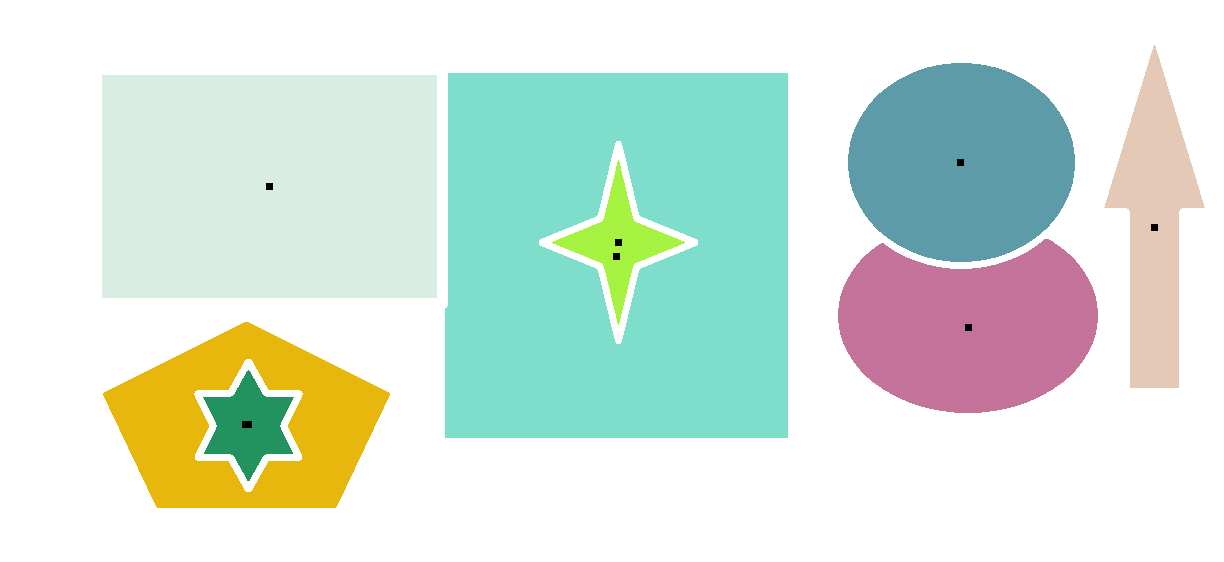
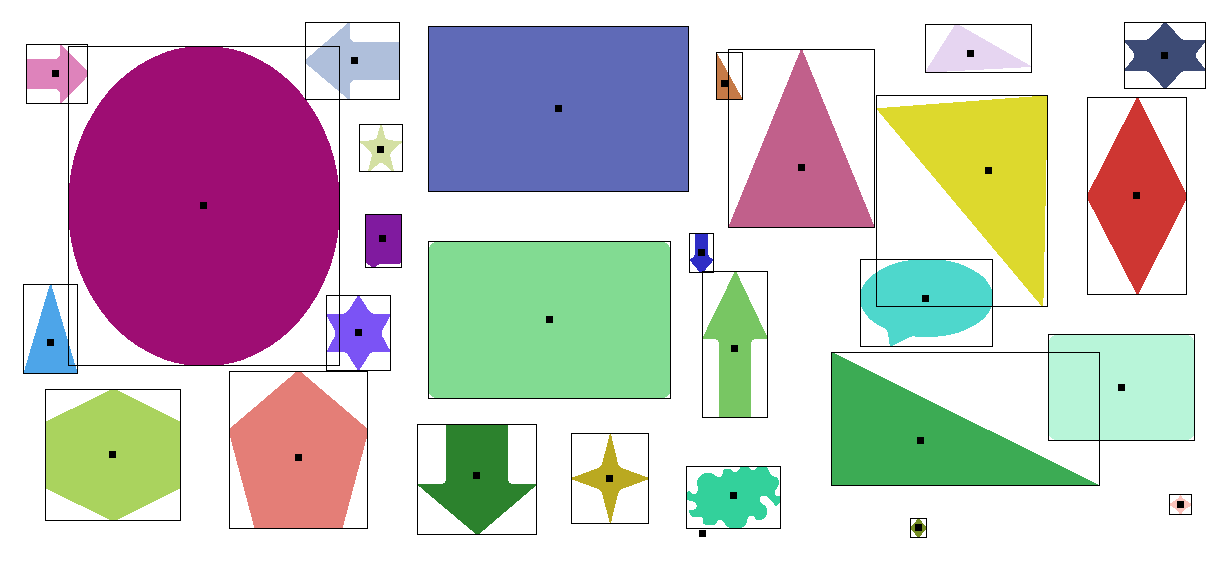
Almost complete form detection

diff --git a/package/forms/floodfill.py b/package/forms/floodfill.py
@@ -1,4 +1,4 @@
-from PIL import Image
+from PIL import Image, ImageDraw
 import sys
 import os.path
 import math
@@ -97,7 +97,6 @@ def enhance_edge(image, bool_edges):
 def flood_fill(image):
 	change_color(image, None, None) #remove pixels that are not white or black
 	image = enhance_edge(image, True) #se crea un nuevo objeto tipo Image, ya es distinto que el que recibe flood_fill
-	image.show()
 	white_color, black_color = (255, 255, 255), (0, 0, 0)
 	xs, ys = image.size
 	pixels = image.load()
@@ -105,6 +104,7 @@ def flood_fill(image):
 	max_color_count = 0
 	background_new_color = ()
 	center_mass = {} #color -> center of mass
+	info_form = {}
 	for y in xrange(0, ys):
 		for x in xrange(0, xs):
 			pixel = pixels[x, y]
@@ -112,6 +112,7 @@ def flood_fill(image):
 				visitados = {}
 				newcolor = rout.gen_color(color_list)
 				color_list.append(newcolor)#generador de colores llamada incompleto
+				visitados[(y, x)] = 1
 				queue_neighbors = list()
 				queue_neighbors.append((y, x))
 				while len(queue_neighbors) > 0:
@@ -122,21 +123,24 @@ def flood_fill(image):
 				if len(visitados) > 0:
 					new_center_mass = center_of_mass(image, visitados)
 					center_mass[newcolor] = new_center_mass
-	print "centro_masas", center_mass
+					info = find_info_form(visitados)
+					info_form[newcolor] = info
 	if background_new_color in center_mass:
 		del center_mass[background_new_color]
-	print "centro_masas", center_mass
+	if background_new_color in info_form:
+		del info_form[background_new_color]
 	change_color(image, background_new_color, white_color) #replace the new back ground color with the white color
 	change_color(image, black_color, white_color)
 	draw_center_mass(image, center_mass)
+	draw_box(image, info_form)
 	return image
 	
-def draw_center_mass(image, center_mass):
+def draw_center_mass(image, color_dic):
 	black_color = (0, 0, 0)
 	xs, ys = image.size
 	pixels = image.load()
-	for color in center_mass:
-		center = center_mass[color]
+	for color in color_dic:
+		center = color_dic[color]
 		y, x = center[0], center[1]
 		for dy in xrange(y - 3, y + 4):
 			if dy >= 0 and dy < ys:
@@ -144,6 +148,24 @@ def draw_center_mass(image, center_mass):
 					if dx >= 0 and dx < xs:
 						pixels[dx, dy] = black_color
 	return None
+	
+def draw_box(image, info_form):
+	black_color = (0, 0, 0)
+	pixels = image.load()
+	xs, ys = image.size
+	for llave in info_form:
+		form = info_form[llave]
+		y1, y2 = form[0]
+		x1, x2 = form[1]
+		pix1, pix2, pix3, pix4 = (x1, y1), (x1, y2), (x2, y1), (x2, y2)
+		draw = ImageDraw.Draw(image)
+		draw.line((pix1, pix3), fill = black_color)
+		draw.line((pix1, pix2), fill = black_color)
+		draw.line((pix4, pix2), fill = black_color)
+		draw.line((pix4, pix3), fill = black_color)
+	return None
+
+			
 	
 def edge_dictio(image):
 	edge_color = (0, 0, 0)
@@ -168,28 +190,38 @@ def edge_dictio(image):
 					edge_id[id] = visitados_lista
 	return edge_id
 	
-def jarvis(image):
-	pixels = image.load()
-	edge_id = edge_dictio(image)
-	for id in edge_id:
-		y, x = [], []
-		edge_points = edge_id[id]
-		for points in edge_points:
-			y.append(points[0])
-		y.sort()
-		lower_y = y[len(y)-1]
-		for points in edge_points:
-			if points[0] == lower_y:
-				x.append(points[1])
-		x.sort()
-		upper_x = x[len(x)-1]
-		print "y, x", (lower_y, upper_x)
+def find_info_form(list_of_pixels):
+	y, x = [], []
+	for pixel in list_of_pixels:
+		y.append(pixel[0])
+		x.append(pixel[1])
+	y.sort()
+	x.sort()
+	y_ = (y[0], y[len(y) - 1])
+	x_ = (x[0], x[len(x) - 1])
+	return (y_, x_)
+		
+
+	#pixels = image.load()
+	#edge_id = edge_dictio(image)
+	#for id in edge_id:
+	#	y, x = [], []
+	#	edge_points = edge_id[id]
+	#	for points in edge_points:
+	#		y.append(points[0])
+	#	y.sort()
+	#	lower_y = y[len(y)-1]
+	#	for points in edge_points:
+	#		if points[0] == lower_y:
+	#			x.append(points[1])
+	##	upper_x = x[len(x)-1]
+		#print "y, x", (lower_y, upper_x)
 	return None
 
 if __name__ == '__main__':
 	#pre_options = aux.pre_argv(sys.argv)
 	#__main__(pre_options[0], pre_options[1], pre_options[2])
-	filename = "samples\\circulos.png"
+	filename = "samples\\figuras_ejemplo.png"
 	print filename
 	original_image = Image.open(filename)
 	image = original_image.convert('RGB')
@@ -221,4 +253,3 @@ if __name__ == '__main__':
 	image = flood_fill(image)
 	image.show()
 	image.save('formas.png')
-	jarvis(image)

diff --git a/package/edge_detection/filtros.py b/package/edge_detection/filtros.py
@@ -1,9 +1,9 @@
 from PIL import Image
 import sys
-import routines.routines as routines
-import routines.auxiliary as auxiliary
+import routines.routines as rout
+import routines.auxiliary as aux
 
-def aplicar_filtro(imagen, tipo_vecino, tipo_filtro):
+def aplicar_filtro(imagen, tipo_filtro):
 	xs, ys = imagen.size
 	pixeles = imagen.load()
 	nueva_imagen = imagen.copy()
@@ -17,24 +17,40 @@ def aplicar_filtro(imagen, tipo_vecino, tipo_filtro):
 						if dx >= 0 and dx < xs:
 							vecinos_valores.append(pixeles[dx, dy][0])
 			if tipo_filtro == 0: #mediana
-				nuevo_valor = auxiliary.mediana(vecinos_valores)
+				nuevo_valor = aux.mediana(vecinos_valores)
 			if tipo_filtro == 1: #promedio
-				nuevo_valor = auxiliary.promedio(vecinos_valores)
+				nuevo_valor = aux.promedio(vecinos_valores)
 			pixeles_nuevos[x, y] = (nuevo_valor, nuevo_valor, nuevo_valor)
 	return nueva_imagen
 				
 
-def __main__(filename):
+def __main__(filename, choice_filter, choice_save):
+	filter_to_use = 0 #default
+	if choice_filter[0]:
+		bool_filter = False
+		filter_name = choice_filter[1]
+		if filter_name == "median":
+			filter_to_use = 0
+			bool_filter = True
+		elif filter_name == "mean":
+			filter_to_use = 1	
+			bool_filter = True
+		if bool_filter:
+			print "Filter to use: {}".format(filter_name)
+		else:
+			print "Default filter: median"
 	imagen_original = Image.open(filename)
 	imagen_original = imagen_original.convert('RGB')
-	imagen_grises = routines.escala_grises(imagen_original)
-	imagen_mediana = aplicar_filtro(imagen_grises, 0, 0)
-	imagen_promedio = aplicar_filtro(imagen_grises, 0, 1)
-	imagen_grises.show()
-	imagen_mediana.show()
-	imagen_promedio.show()
+	imagen_grises = rout.escala_grises(imagen_original)
+	new_image = aplicar_filtro(imagen_grises, filter_to_use)
+	if choice_save[0]:
+		bool_save =  aux.checar_guardar("dest\\", choice_save[1], '.png')
+		if bool_save[0]:
+			print "Directory of the new image: {}".format(bool_save[1])
+			new_image.save(bool_save[1])
+	new_image.show()
+	return None
 
 if __name__ == '__main__':
-	existe = auxiliary.existe_archivo(sys.argv[len(sys.argv) - 1])
-	if existe:
-		__main__(sys.argv[len(sys.argv) - 1])
+	pre_options = aux.pre_argv(sys.argv)
+	__main__(pre_options[0], pre_options[1], pre_options[2])

diff --git a/package/edge_detection/mascaras.py b/package/edge_detection/mascaras.py
@@ -198,13 +198,13 @@ def __main__(filename, choice_mask, choice_save):
 	imagen_original = Image.open(filename)
 	imagen_original = imagen_original.convert('RGB')
 	imagen_grises = rout.escala_grises(imagen_original)
-	imagen_mascara = aplicar_mascara(imagen_grises, mask, multiple_mask)
+	new_image = aplicar_mascara(imagen_grises, mask, multiple_mask)
 	if choice_save[0]:
 		bool_save =  aux.checar_guardar("dest\\", choice_save[1], '.png')
 		if bool_save[0]:
 			print "Directory of the new image: {}".format(bool_save[1])
-			imagen_mascara.save(bool_save[1])
-	imagen_mascara.show()
+			new_image.save(bool_save[1])
+	new_image.show()
 	return None
 
 #run in the 'package' directory

diff --git a/package/routines/auxiliary.py b/package/routines/auxiliary.py
@@ -152,4 +152,7 @@ def pre_argv(argv):
 						choice_save = (True, argv[index_argv + 1])
 		else:
 			choice_option, choice_save = (False, None), (False, None)
-	return (argv[len(argv) - 1], choice_option, choice_save)
+		return (argv[len(argv) - 1], choice_option, choice_save)
+	else:
+		print "No existe el archivo"
+		quit()
